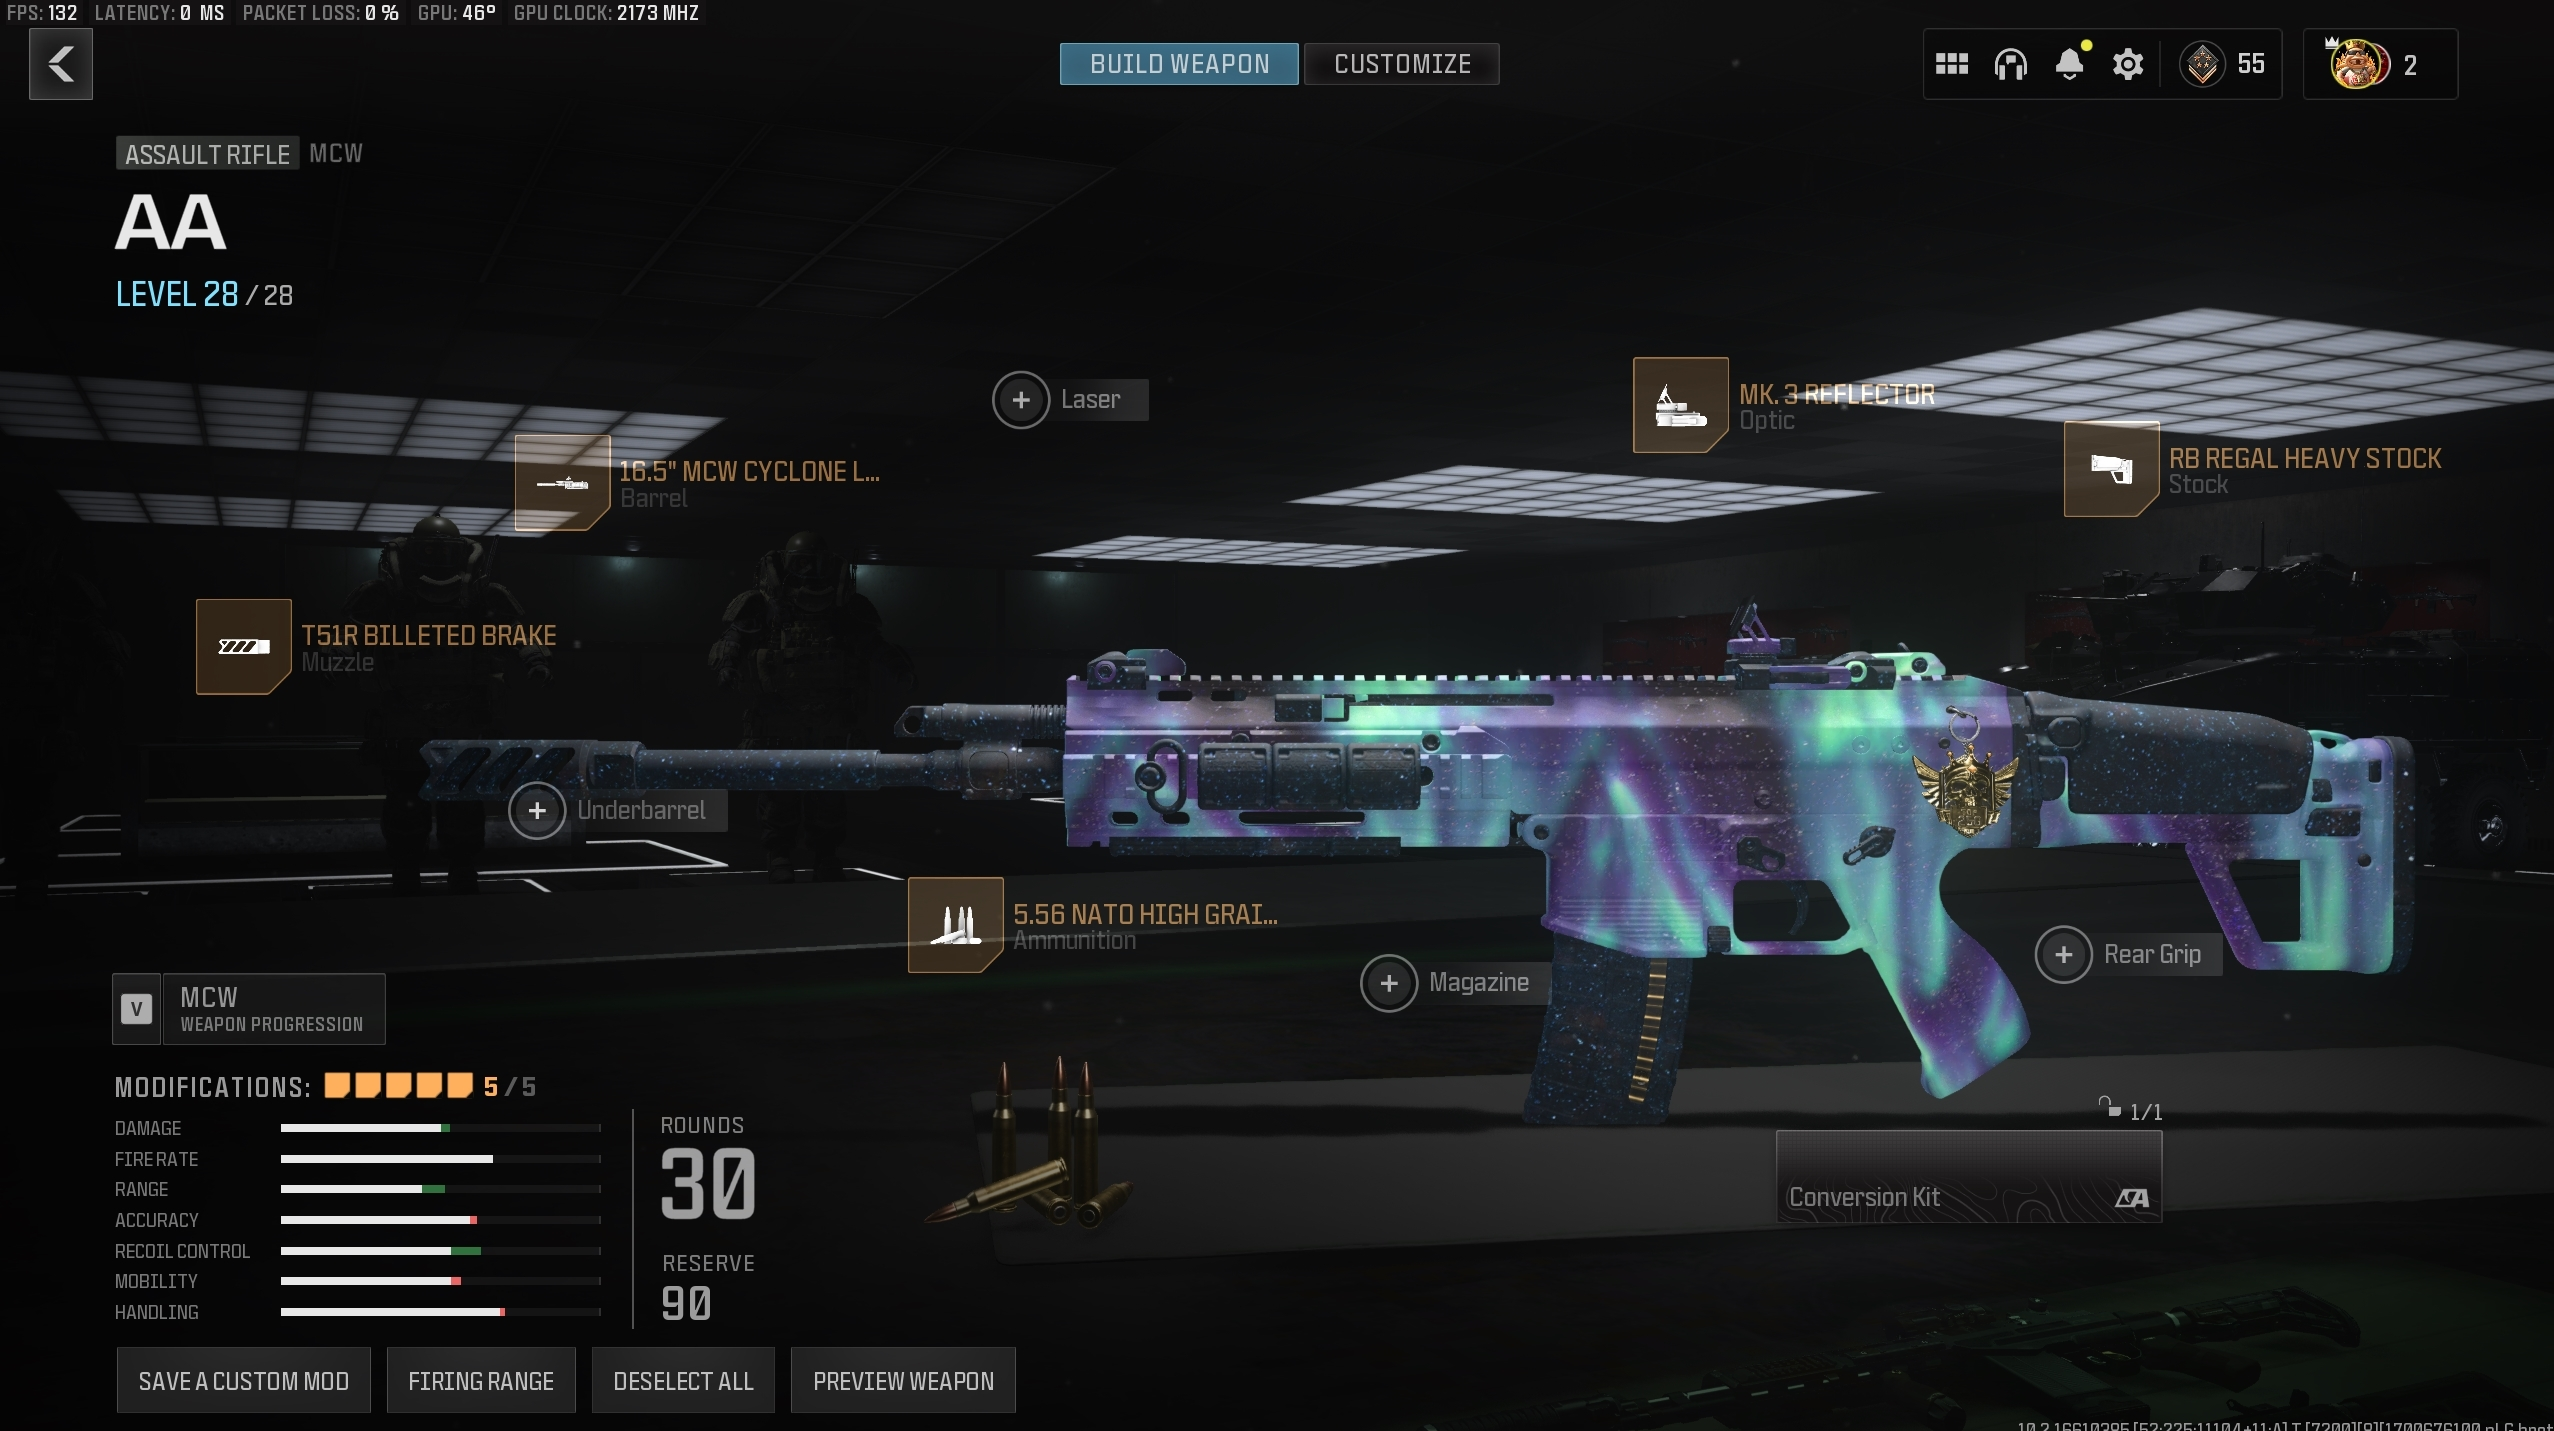
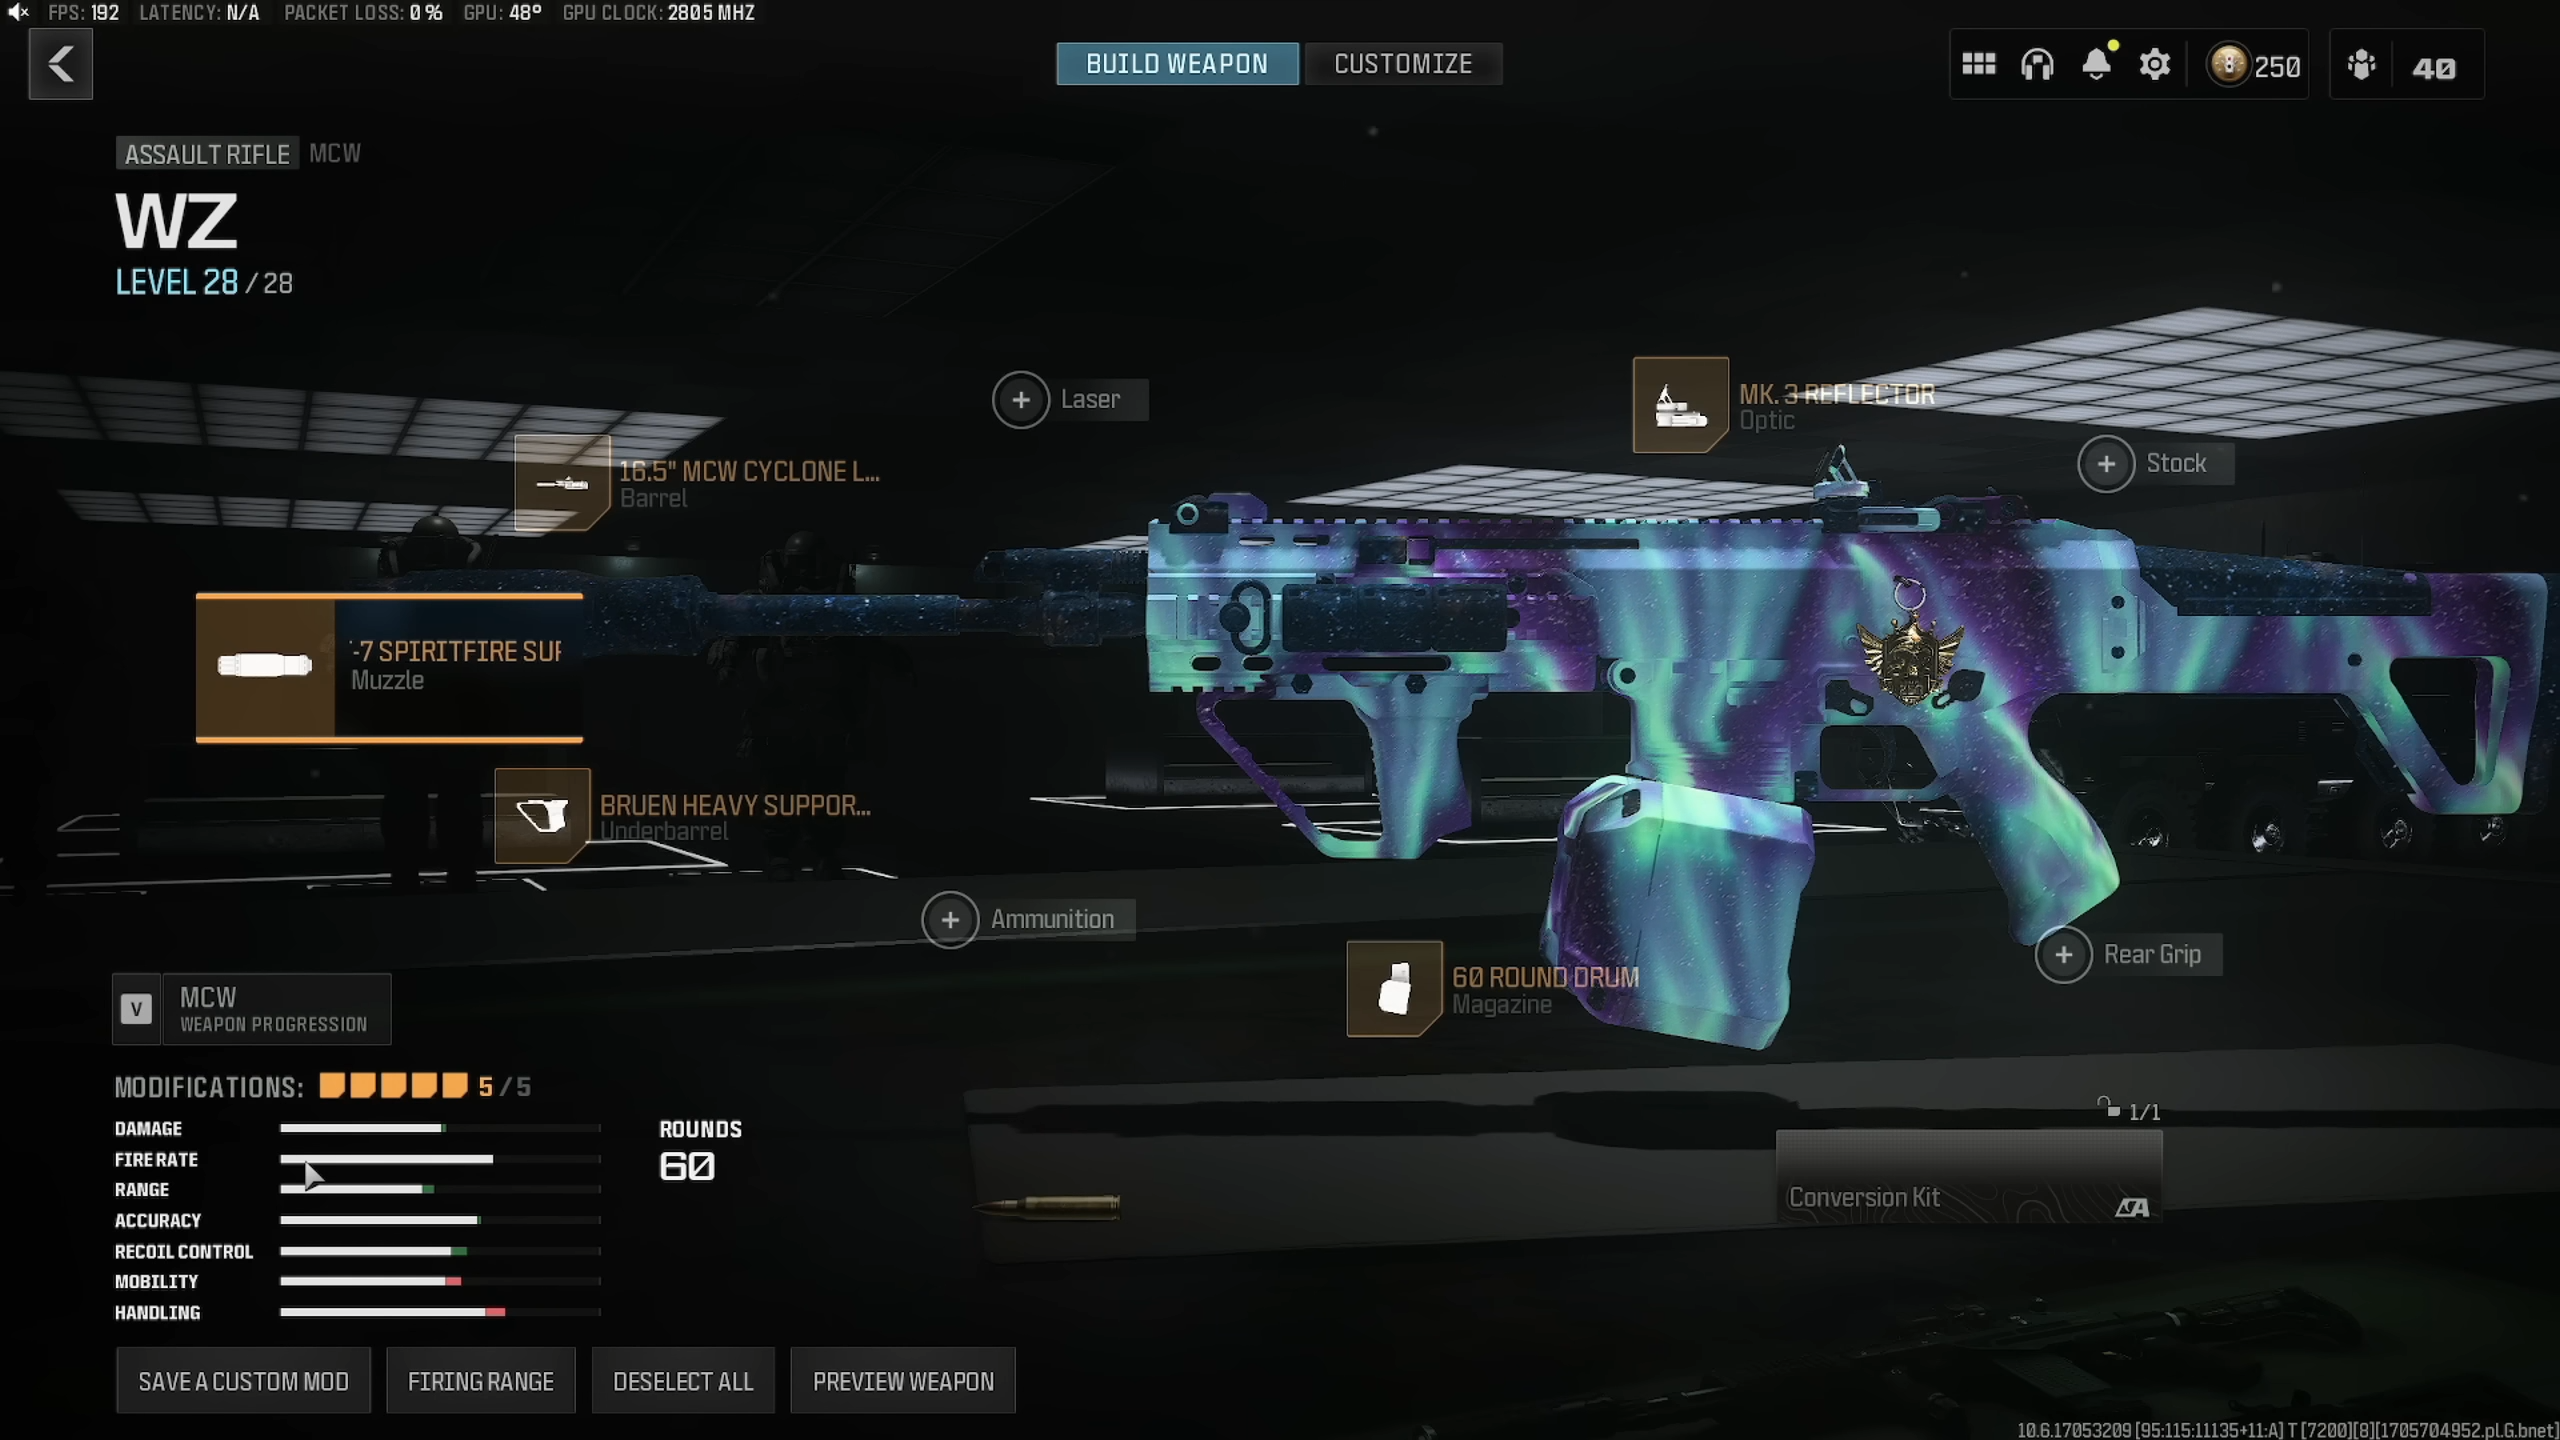
Updated loadouts

diff --git a/index.html b/index.html
@@ -44,15 +44,15 @@
                 </p>
             </div>
             <div class="float-child">
-                <img src="https://cdn.betterttv.net/emote/618c77311f8ff7628e6d5b8f/3x.webp" alt="Chatting"
+                <img src="./Images/Emotes/Chatting.gif" alt="Chatting"
                     style="transform: rotate(15deg);">
-                <img src="https://cdn.7tv.app/emote/65400bfae14850294e7d6b47/4x.webp" alt="fatbruhSit"
+                <img src="./Images/Emotes/fatbruhSit.png" alt="fatbruhSit"
                     style="margin-left: 15%; padding-top: 5%; transform: rotate(-10deg);">
-                <img src="./Images/met4Sip.png" alt="met4Sip"
+                <img src="./Images/Emotes/met4Sip.png" alt="met4Sip"
                     style="margin-left: 15%; padding-top: 5%; transform: rotate(10deg);width: 112px; height: 112px;">
-                <img src="./Images/met4Heart.png" alt="met4Heart"
+                <img src="./Images/Emotes/met4Heart.png" alt="met4Heart"
                     style="margin-left: 15%; padding-top: 5%; transform: rotate(-8deg);width: 112px; height: 112px;">
-                <img src="./Images/met4Tip.gif" alt="met4Tip"
+                <img src="./Images/Emotes/met4Tip.gif" alt="met4Tip"
                     style="margin-left: 15%; padding-top: 5%; transform: rotate(5deg);width: 112px; height: 112px;">
             </div>
         </div>

diff --git a/Index/MCPR-300.html b/Index/MCPR-300.html
@@ -1,0 +1,29 @@
+<!DOCTYPE html>
+<html>
+
+<head>
+    <title>MCPR-300</title>
+    <link rel="icon" type="image" href="/Images/murphylogo.png">
+    <link rel="stylesheet" href="../CSS/Index.css">
+</head>
+
+<body>
+    <nav class="topnav" style="margin-right: 10%;">
+        <a href="./faq.html">FAQ</a>
+        <a href="./Image_gallery.html">Weapons Gallery</a>
+        <a href="../index.html">Home</a>
+    </nav>
+    <h1 class="small rounded">MCPR-300</h1>
+    <section class="flex-container-row">
+        <img src="../Images/MCPR.jpg" alt="MCPR-300 weapon build" width="80%">
+    </section>
+
+    <br>
+    <h3 class="small rounded">Featured in:</h3>
+    <section class="flex-container-row">
+        <iframe width="650" height="380" src="https://www.youtube.com/embed/vk6JriaXlS0">
+        </iframe>
+    </section>
+</body>
+
+</html>

diff --git a/Index/faq.html b/Index/faq.html
@@ -15,7 +15,18 @@
     </nav>
 
     <h1>FAQ</h1>
-    <h3 style="margin-bottom: 100%;">-This site is currently under construction-</h3>
+    <div class="float-container" style="height: 1000px;">
+        <div class="float-child" style="width: 22%; border-style: solid;">
+            <img src="../Images/Emotes/CatSip.gif" alt="CatSip" style="transform: rotate(5deg); width: 64px;">
+        </div>
+        <div class="float-child" style="padding-left: 5%; width: 50%; margin-right: 20px; border-style: solid;">
+            <h4>Q: How old is Metaphor?</h4>
+            <h4>A: 28</h4>
+        </div>
+        <div class="float-child" style="width: 22%; border-style: solid;">
+            <img src="../Images/Emotes/CatSit.gif" alt="CatSit" style="transform: rotate(-7deg); width: 64px;">
+        </div>
+    </div>
 </body>
 
 </html>

diff --git a/Index/ISO.html b/Index/ISO.html
@@ -14,12 +14,16 @@
         <a href="../index.html">Home</a>
     </nav>
     <h1 class="small rounded">ISO 9MM</h1>
-    <img src="../Images/ISO 9MM.jpg" alt="ISO 9MM weapon build" width="80%">
-
+    <section class="flex-container-row">
+        <img src="../Images/ISO 9MM.jpg" alt="ISO 9MM weapon build" width="80%">
+    </section>
     <br>
+
     <h3 class="small rounded">Featured in:</h3>
-    <iframe width="650" height="380" src="https://www.youtube.com/embed/_sOkHp6_H7s">
-    </iframe>
+    <section class="flex-container-row">
+        <iframe width="650" height="380" src="https://www.youtube.com/embed/_sOkHp6_H7s">
+        </iframe>
+    </section>
 </body>
 
 </html>

diff --git a/Index/Image_gallery.html b/Index/Image_gallery.html
@@ -61,6 +61,10 @@
             <div class="desc big rounded">LOCKWOOD 680</div>
         </div>
         <div class="gallery">
+            <a href="./MCPR-300.html"><img src="../Images/MCPR.jpg" alt="MCPR-300 build"></a>
+            <div class="desc rounded" style="margin-left: 41%; margin-right: 41%;">MCPR-300</div>
+        </div>
+        <div class="gallery">
             <a href="./MCW.html"><img src="../Images/MCW.jpg" alt="MCW build"></a>
             <div class="desc rounded" style="margin-left: 43%; margin-right: 43%;">MCW</div>
         </div>

diff --git a/Index/BASB.html b/Index/BASB.html
@@ -42,6 +42,9 @@
         <iframe width="650" height="380" src="https://www.youtube.com/embed/ybZW6ebaCVE">
         </iframe>
 
+        <iframe width="650" height="380" src="https://www.youtube.com/embed/TvWgPIUze5w">
+        </iframe>
+
         <iframe width="650" height="380" src="https://www.youtube.com/embed/I3N9bmbC4rI">
         </iframe>
     </section>

diff --git a/Index/LOCKWOOD.html b/Index/LOCKWOOD.html
@@ -28,9 +28,6 @@
         <iframe width="650" height="380" src="https://www.youtube.com/embed/88v1yPj7keQ">
         </iframe>
 
-        <iframe width="650" height="380" src="https://www.youtube.com/embed/TvWgPIUze5w">
-        </iframe>
-
         <iframe width="650" height="380" src="https://www.youtube.com/embed/lGyNT5yjbNs">
         </iframe>
     </section>

diff --git a/Index/WSPS.html b/Index/WSPS.html
@@ -31,6 +31,9 @@
 
         <iframe width="650" height="380" src="https://www.youtube.com/embed/2WbOw8suiSU">
         </iframe>
+        
+        <iframe width="650" height="380" src="https://www.youtube.com/embed/8AvQqGvk53U">
+        </iframe>
 
         <iframe width="650" height="380" src="https://www.youtube.com/embed/7o4_9wk4PUo">
         </iframe>

diff --git a/Index/RAM.html b/Index/RAM.html
@@ -37,6 +37,9 @@
         <iframe width="650" height="380" src="https://www.youtube.com/embed/88v1yPj7keQ">
         </iframe>
 
+        <iframe width="650" height="380" src="https://www.youtube.com/embed/8AvQqGvk53U">
+        </iframe>
+
         <iframe width="650" height="380" src="https://www.youtube.com/embed/rEYew5cfyk4">
         </iframe>
 

diff --git a/Index/STRIKER.html b/Index/STRIKER.html
@@ -54,6 +54,10 @@
             <iframe width="650" height="380" src="https://www.youtube.com/embed/ybZW6ebaCVE">
             </iframe>
         </div>
+        <div>
+            <iframe width="650" height="380" src="https://www.youtube.com/embed/TvWgPIUze5w">
+            </iframe>
+        </div>
     </section>
 </body>
 

diff --git a/Index/MCW.html b/Index/MCW.html
@@ -16,7 +16,7 @@
     <h1 class="small rounded">MCW</h1>
 
     <section class="flex-container-row">
-        <img src="../Images/MCW2.png" alt="MCW weapon build" width="80%">
+        <img src="../Images/MCW.jpg" alt="MCW weapon build" width="80%">
         <div class="desc descrounded small">MCW</div>
     </section>
 

diff --git a/CSS/Index.css b/CSS/Index.css
@@ -222,3 +222,14 @@ div.desc {
     transform: rotate(-35deg);
     color: rgb(197, 44, 85);
 }
+
+#faq {
+    width: 45%;
+    text-align: left;
+    padding-left: 2.5%;
+    padding-right: 2.5%;
+    border:#0E1116;
+    border-width: 2px;
+    border-style: solid;
+    margin-left: 25%;
+}
